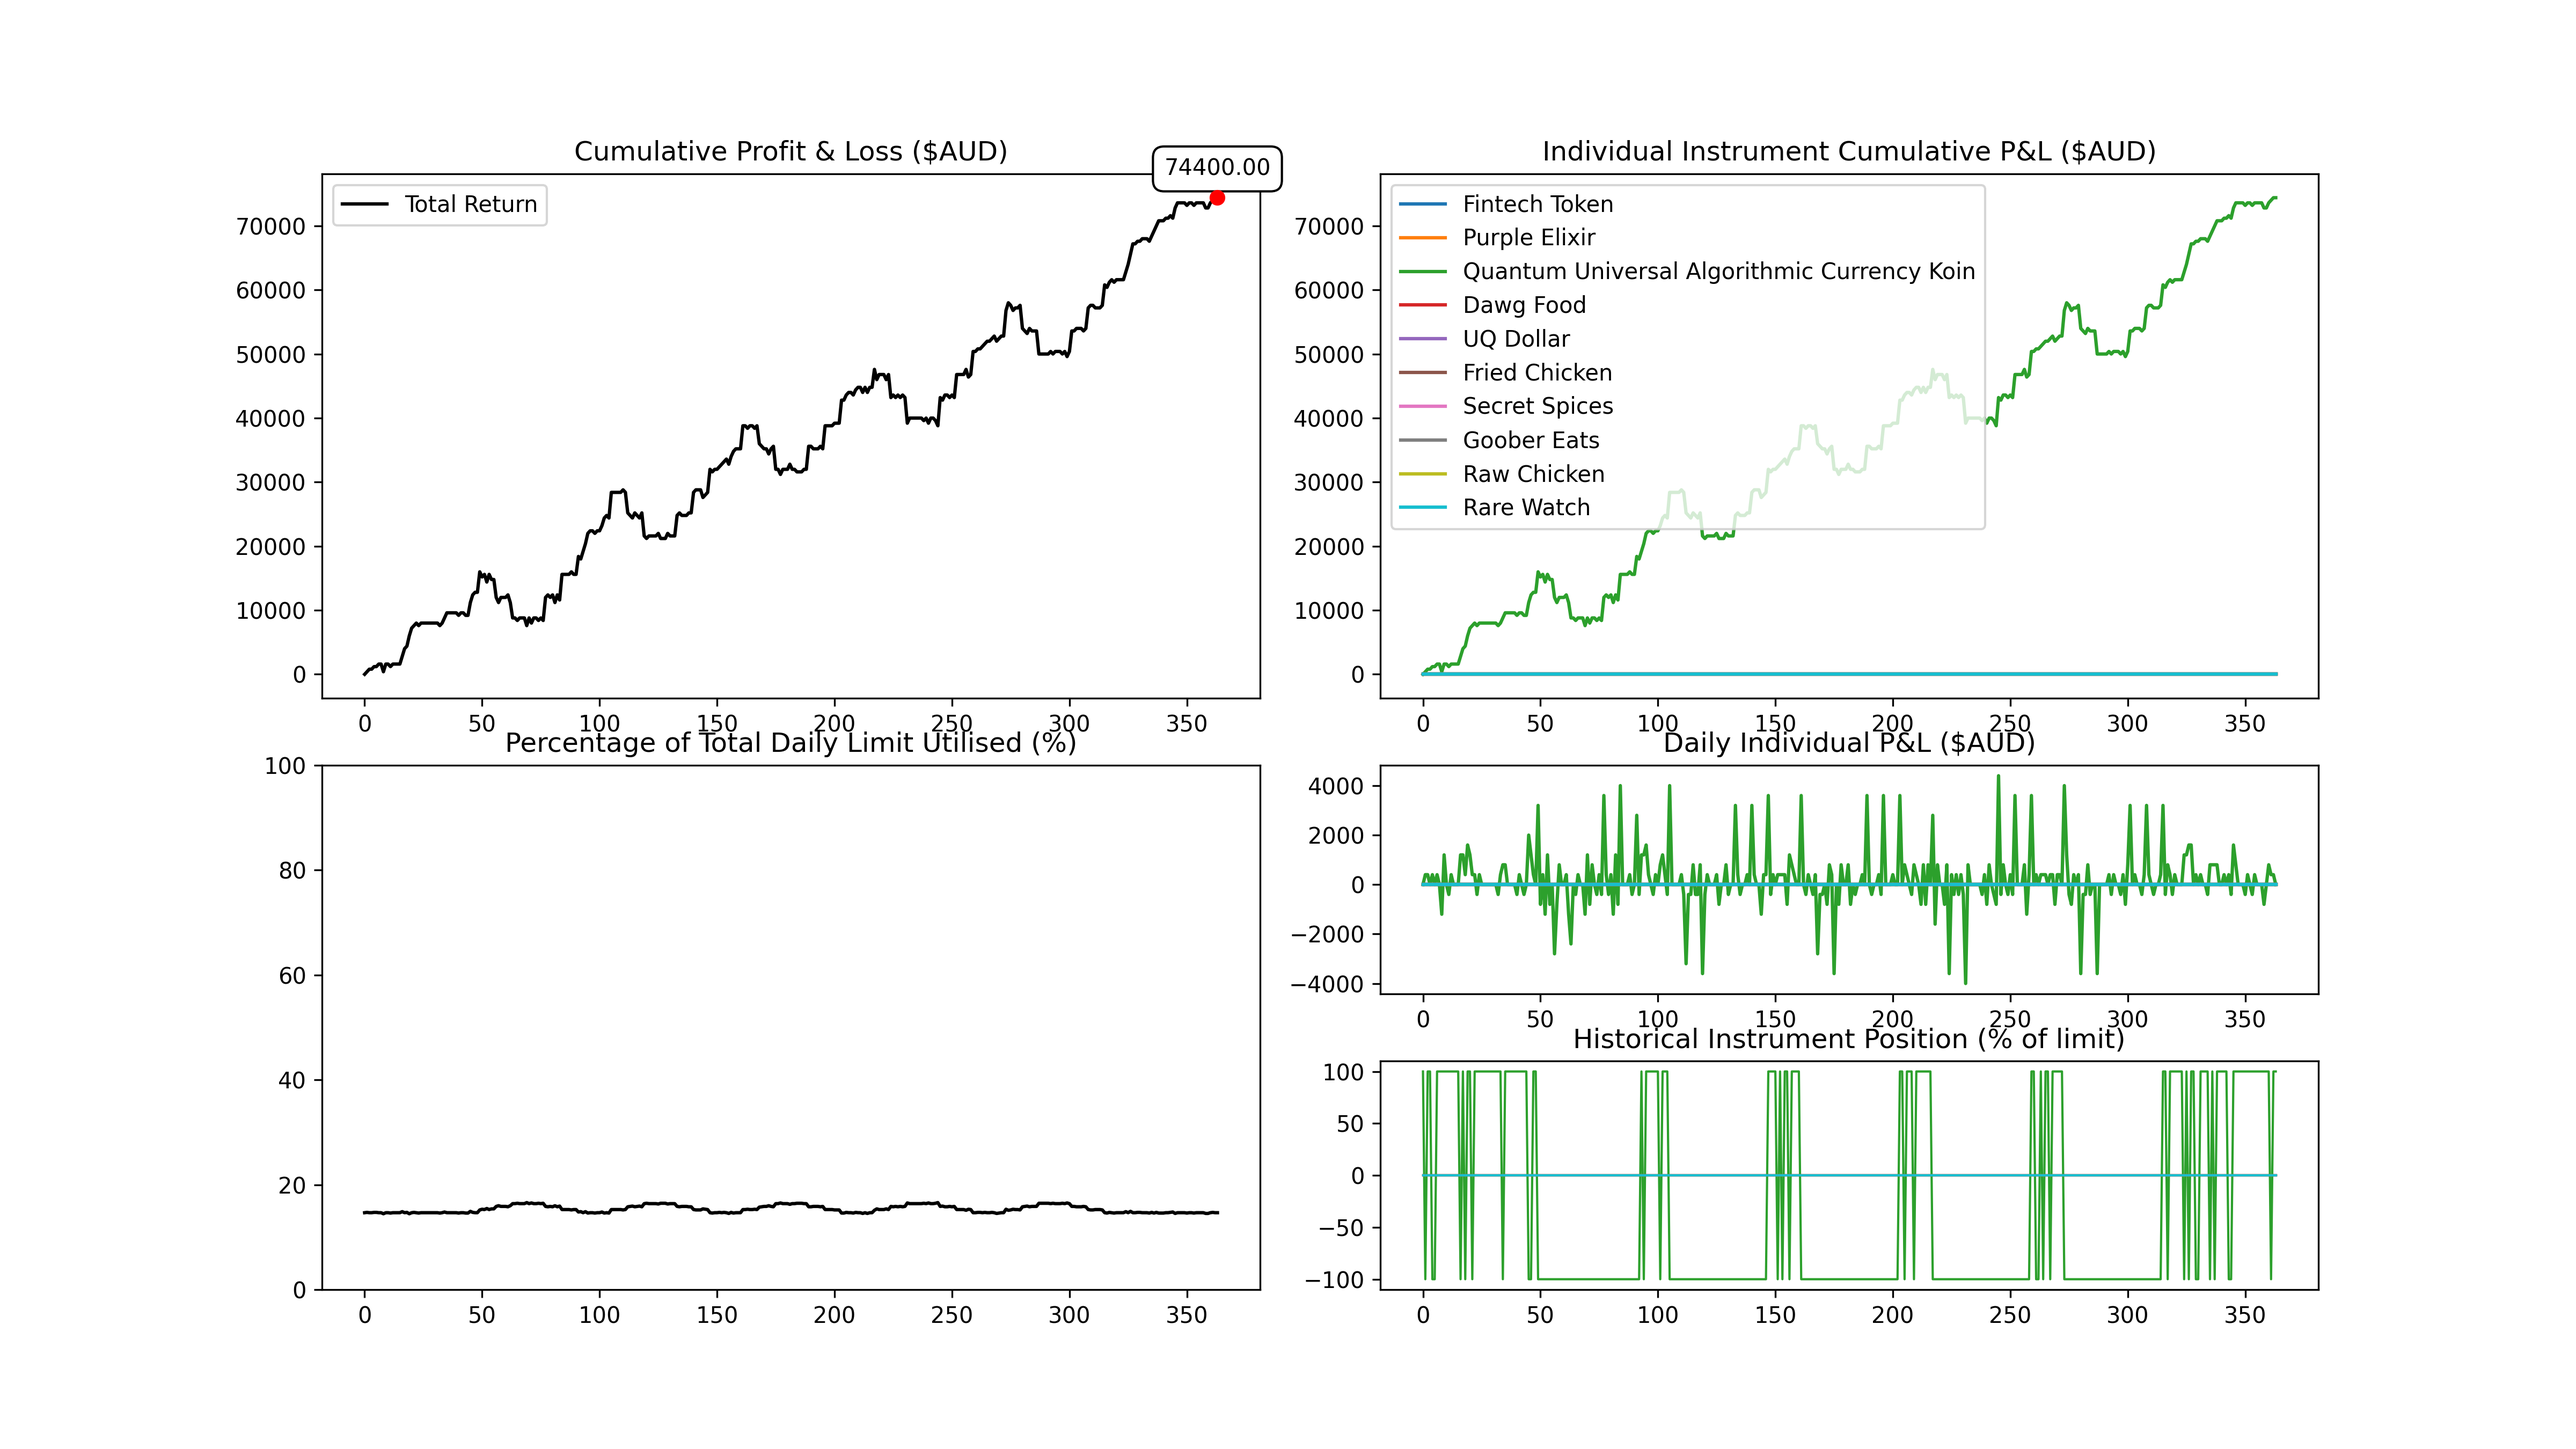
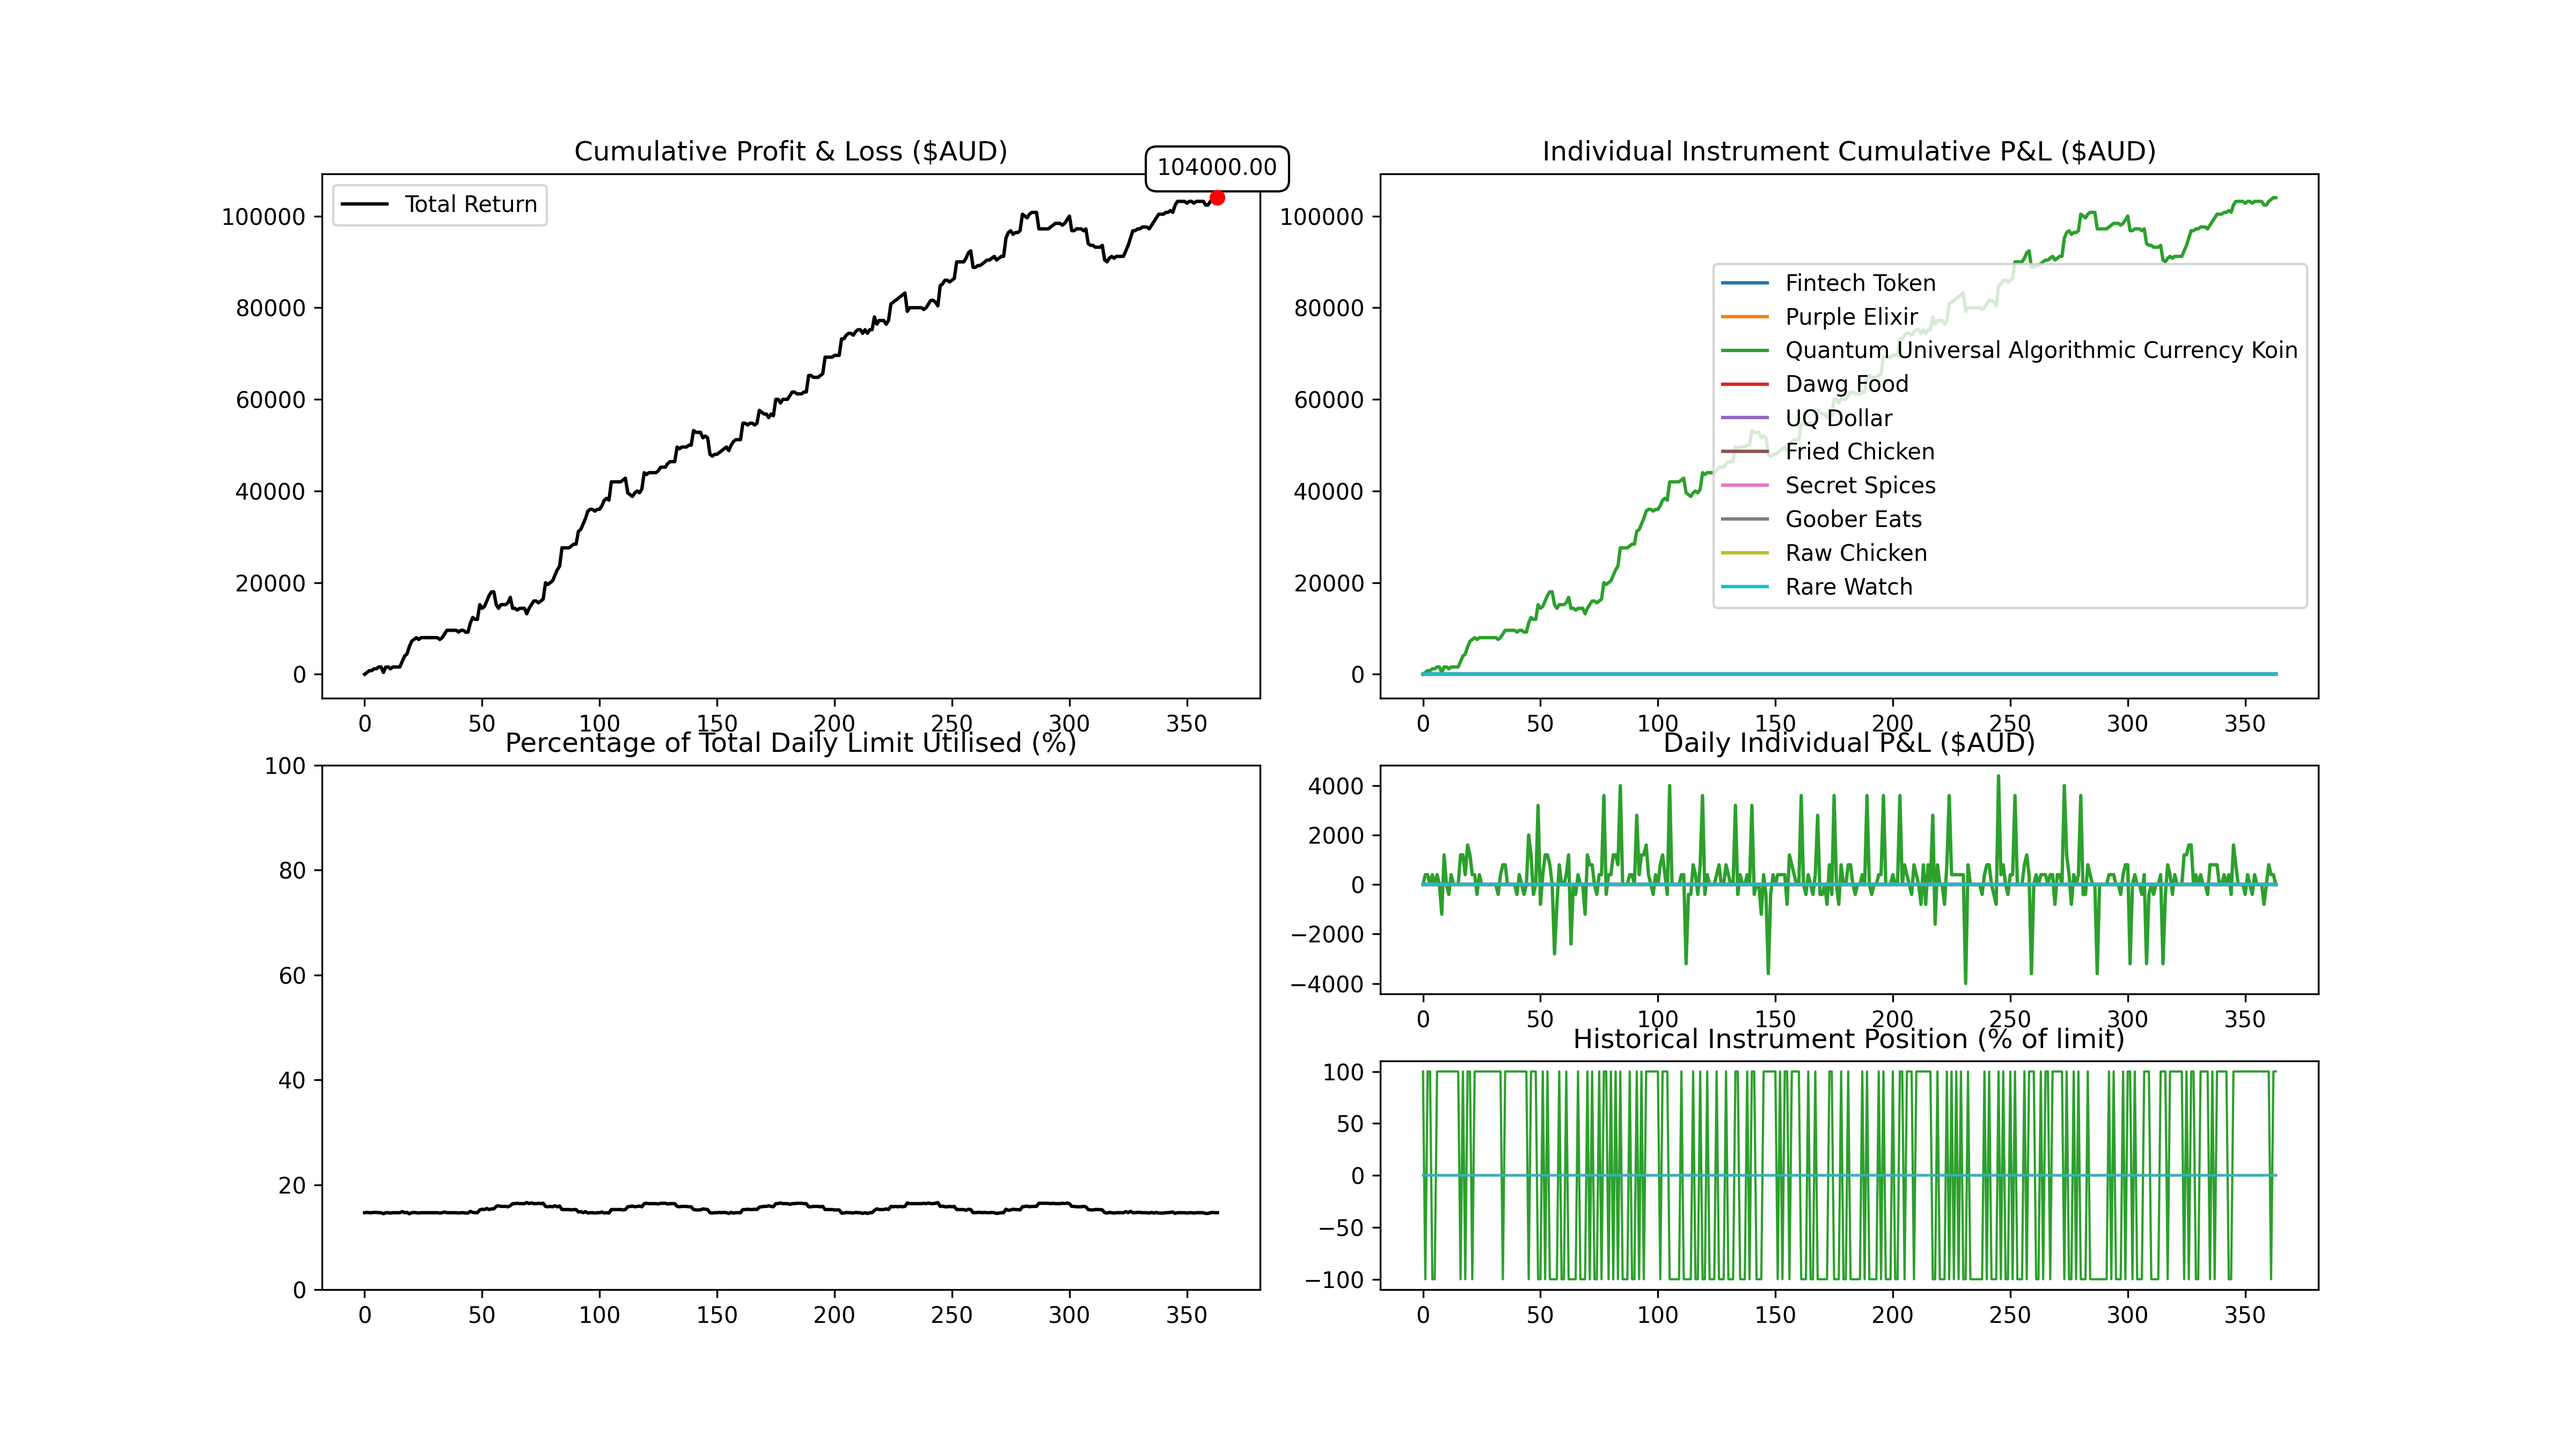
QUACK update

diff --git a/trader_interface/algorithm.py b/trader_interface/algorithm.py
@@ -62,11 +62,11 @@ class Algorithm():
         QUACK = "Quantum Universal Algorithmic Currency Koin"
 
         # QUACK
-        # short
-        if self.data[QUACK][self.day] > 2.2:
-            desiredPositions[QUACK] = -positionLimits[QUACK]
-        else: # stock - historically more likely to go up
+        # stock - historically more likely to go up
+        if self.data[QUACK][self.day] <= 2.2 or (self.day >= 2 and self.data[QUACK][-2] > self.data[QUACK][-1]):
             desiredPositions[QUACK] = positionLimits[QUACK]
+        else: # short
+             desiredPositions[QUACK] = -positionLimits[QUACK]
 
 
         # Display the end of trading day
